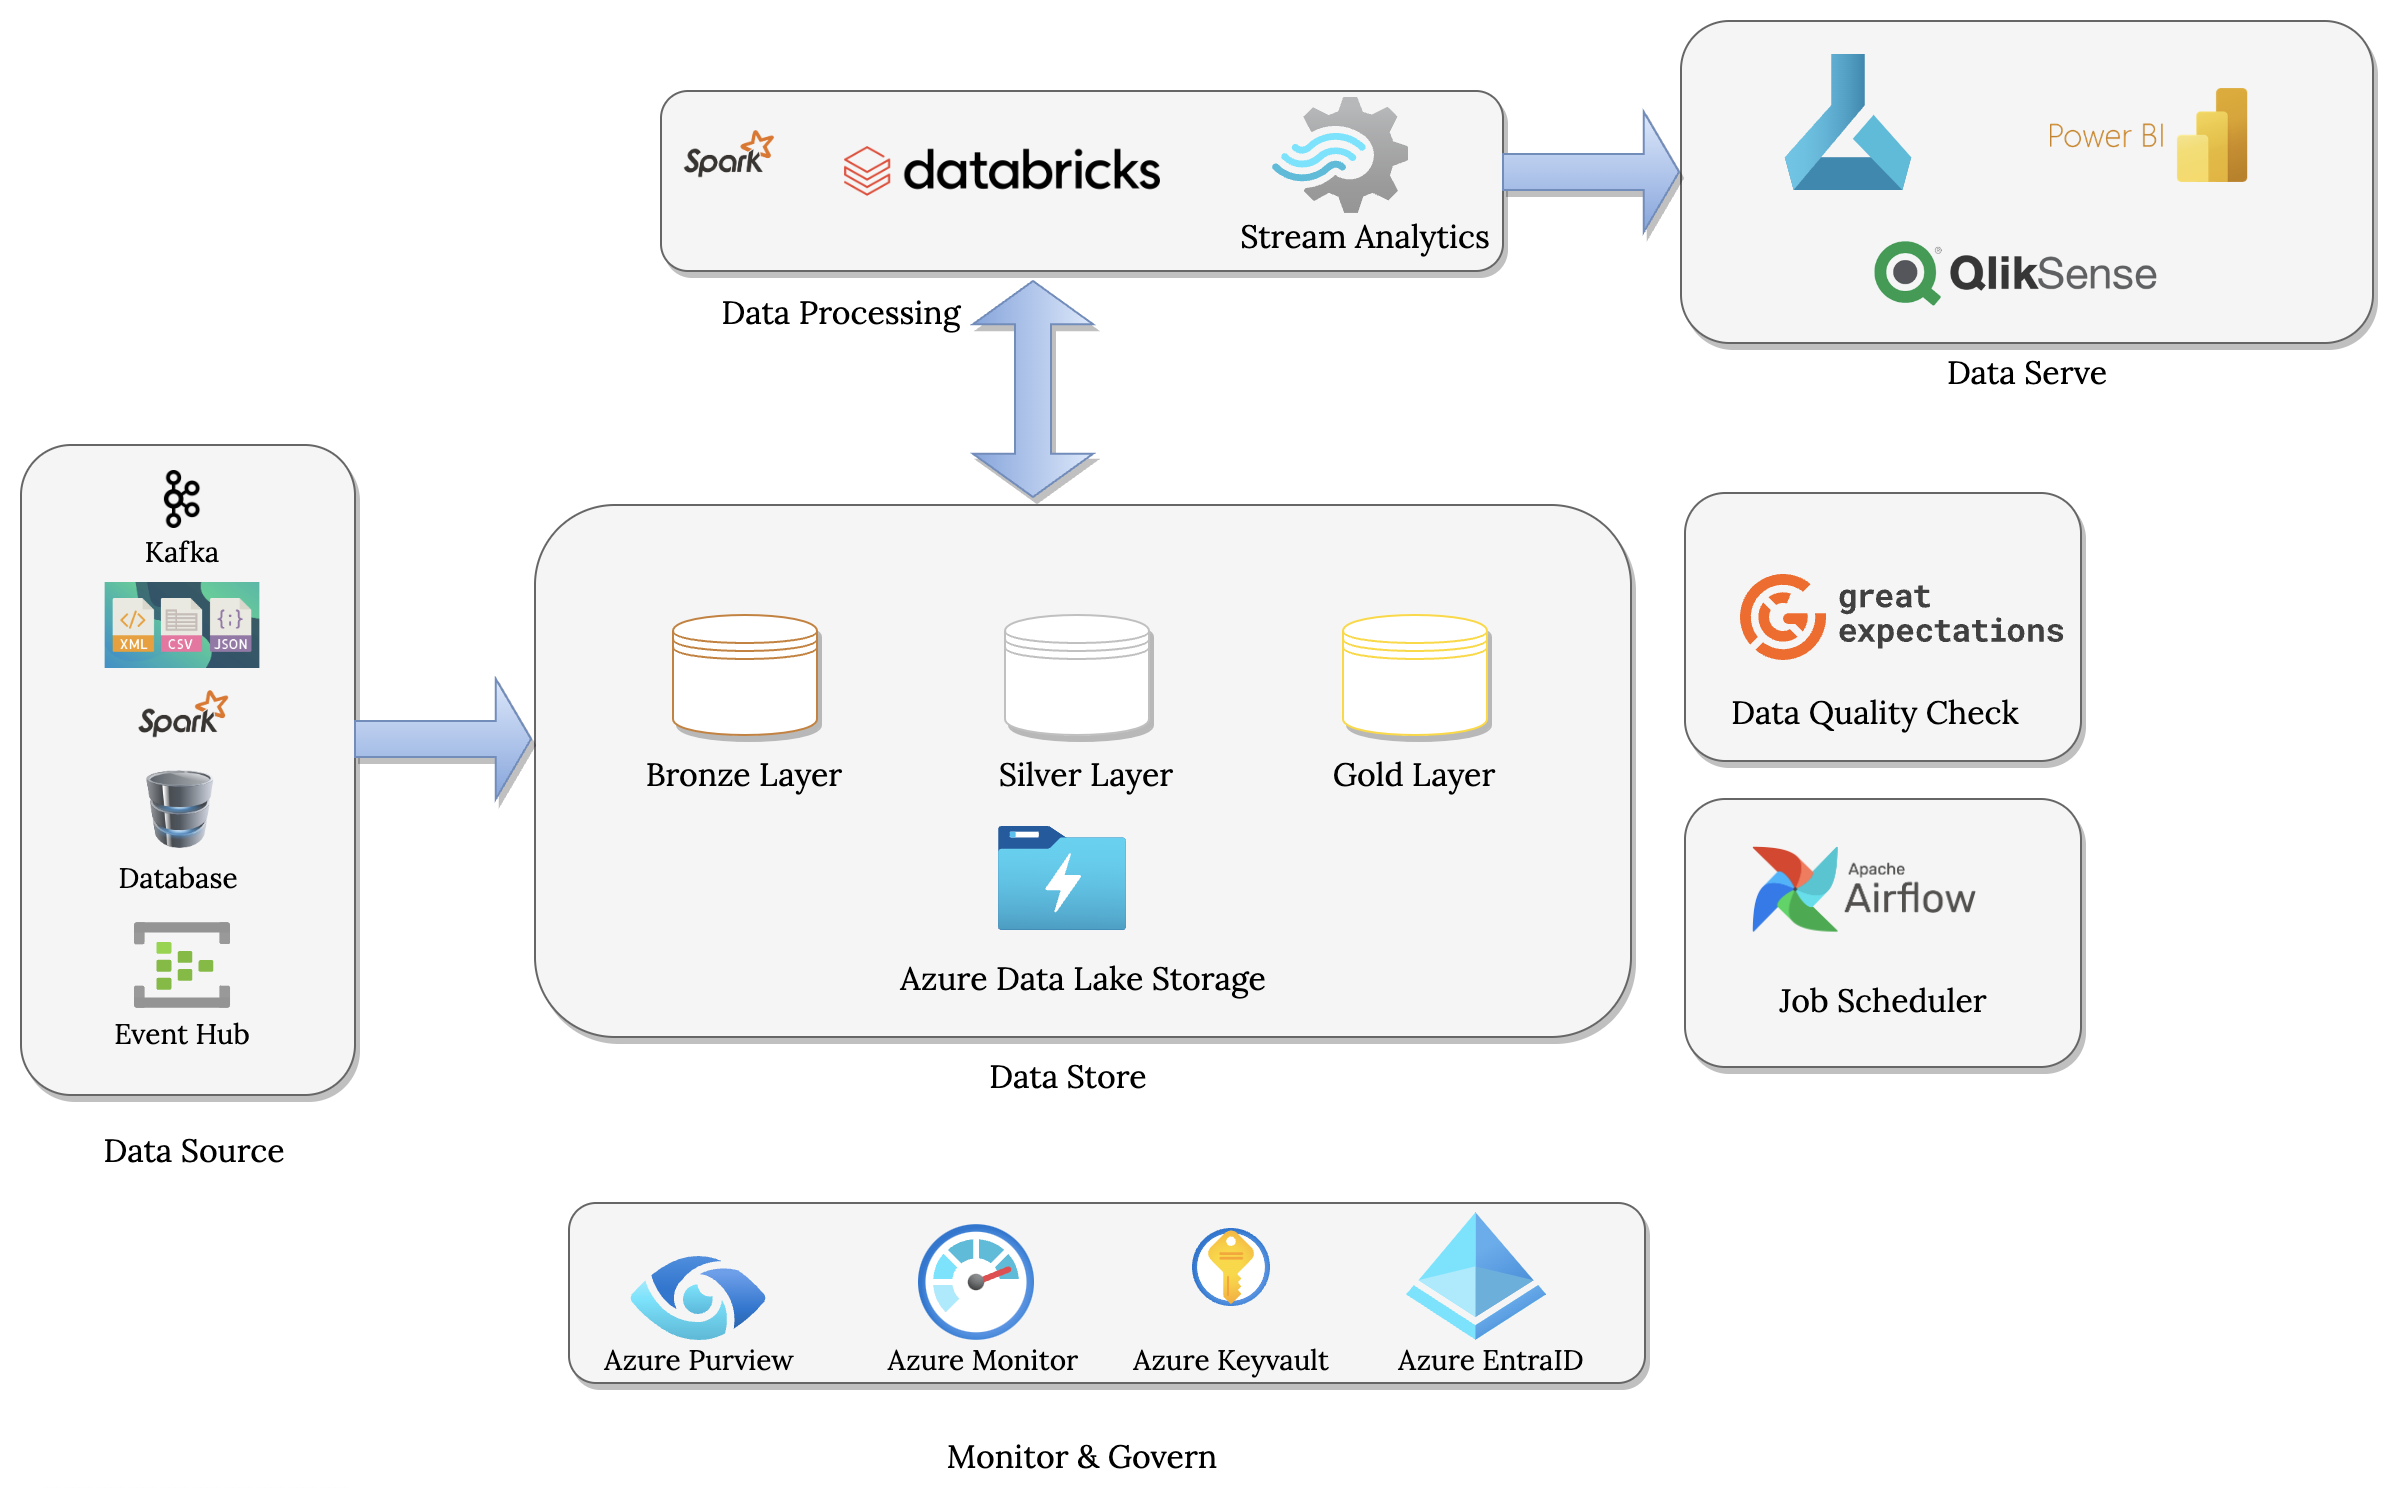
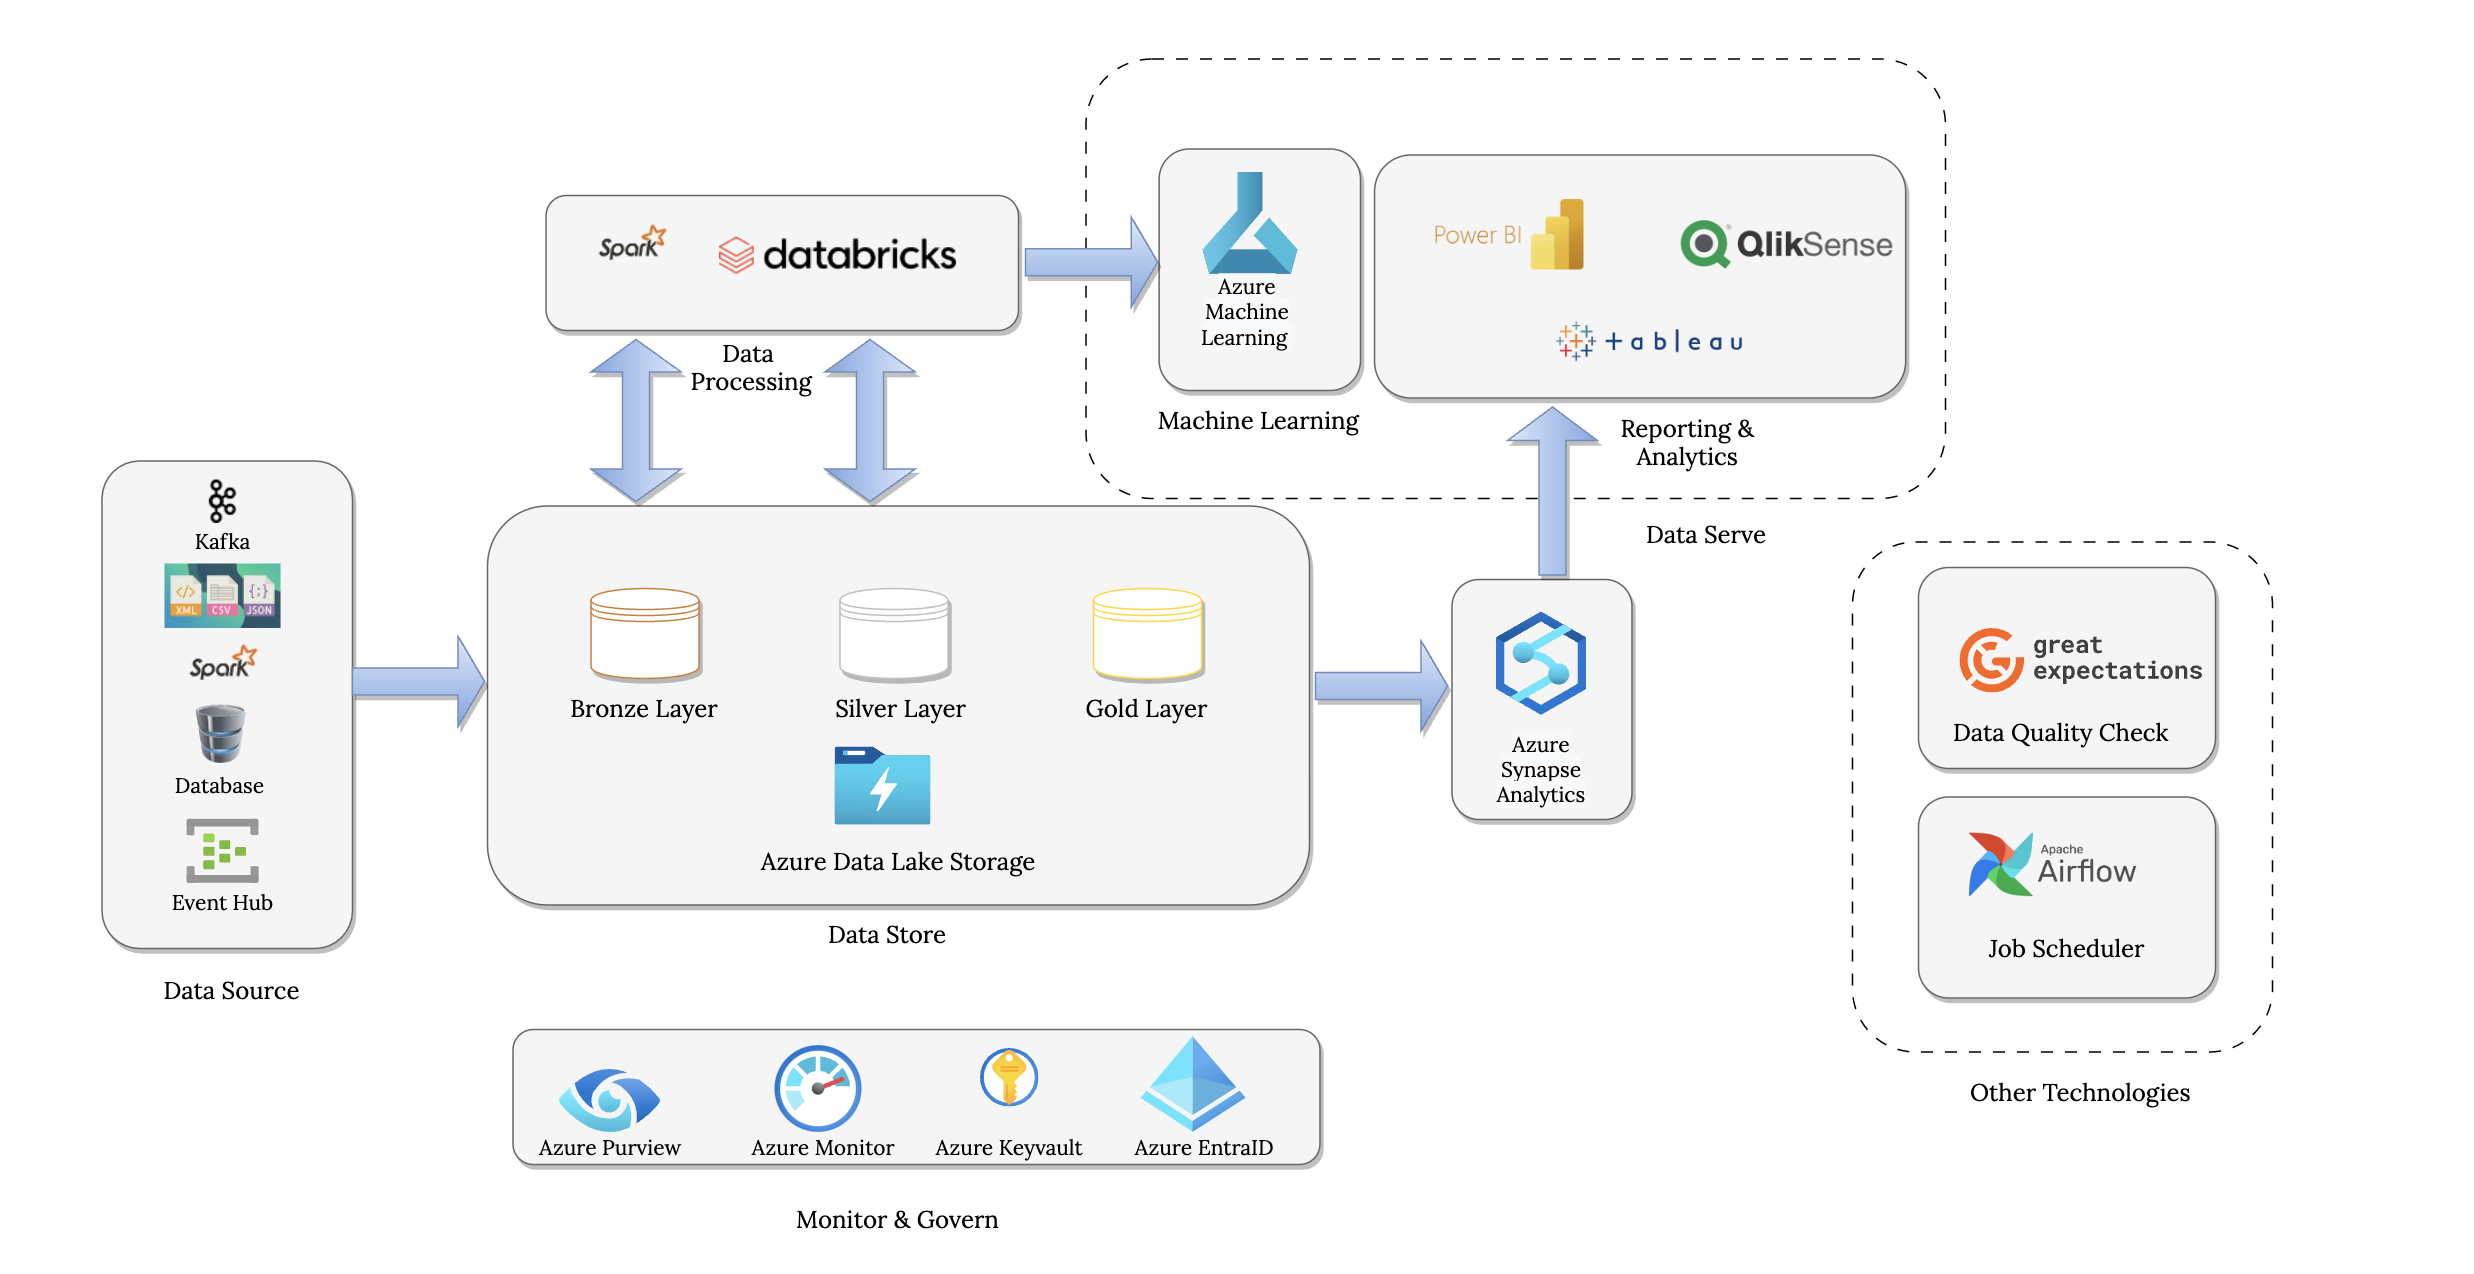
Updated README file and diagrams

diff --git a/README.md b/README.md
@@ -1,37 +1,33 @@
+# HPS Platform
 
-# HPS Platform 
+The objective of this repository is to fulfil the following requirement -
 
-The objective of this repository is to fulfil the following requirement - 
-
-1) Sketch out an architecture diagram, showing the main components of the digital web-based HPS product. Indicate how the components
-communicate with each other and what architectural style are being used/followed. Create a basic RESTful API endpoint (including some unit tests)
-for at least one of the components.
-2) Design and diagram an underlying unified data model / database(s) to be used to store, analyze and modify the primary data. Write sample SQL
-queries to retrieve specific data from this database.
-3) Define the relevant technical specifications and set of technologies that would be used to address the following operational aspects: 
-<br>
-❑ Extract data from different data sources, Transform it to the underlying data model, then Load it to the desired storage location. <br>
-❑ Dealing with structured and unstructured data sources.<br>
-❑ Scalability in order to process & serve behavioral data of billions of customers worldwide.<br>
-❑ Support of various trigger mechanisms that would invoke data extraction and ingestion.
-</br>
-4) Define what kind of technologies/platforms/tools should be used with or integrated into the application. Consider here also peripheral aspects such
-as observability and data quality.
-5) List challenges/concerns that you see and indicate how you think they should be approached and resolved.
-6) Calculate the total number of cups of coffee that the HPS product team consumes each sprint. Explain how you arrived at your answer.
-
-
+1. Sketch out an architecture diagram, showing the main components of the digital web-based HPS product. Indicate how the components
+   communicate with each other and what architectural style are being used/followed. Create a basic RESTful API endpoint (including some unit tests)
+   for at least one of the components.
+2. Design and diagram an underlying unified data model / database(s) to be used to store, analyze and modify the primary data. Write sample SQL
+   queries to retrieve specific data from this database.
+3. Define the relevant technical specifications and set of technologies that would be used to address the following operational aspects:
+   <br>
+   ❑ Extract data from different data sources, Transform it to the underlying data model, then Load it to the desired storage location. <br>
+   ❑ Dealing with structured and unstructured data sources.<br>
+   ❑ Scalability in order to process & serve behavioral data of billions of customers worldwide.<br>
+   ❑ Support of various trigger mechanisms that would invoke data extraction and ingestion.
+   </br>
+4. Define what kind of technologies/platforms/tools should be used with or integrated into the application. Consider here also peripheral aspects such
+   as observability and data quality.
+5. List challenges/concerns that you see and indicate how you think they should be approached and resolved.
+6. Calculate the total number of cups of coffee that the HPS product team consumes each sprint. Explain how you arrived at your answer.
 
 # Survey Template Application (Requirement #1)
 
-This repository contains the source code for a Proof of Concept (PoC) survey template application. It demonstrates how to set up, run, and interact with a simple survey application using Python and FastAPI along with the design diagram. 
+This repository contains the source code for a Proof of Concept (PoC) survey template application. It demonstrates how to set up, run, and interact with a simple survey application using Python and FastAPI along with the design diagram.
 
-** My assumption is HPS platform is a consumer survey platform where we can gather consumer journey experience. However there would be multiple ways to capture various sentimates and behaviours of consumer while doing online shopping. Especially on the shopping portal, the user tracking data, conversion details can be captured.
-
+\*\* My assumption is HPS platform is a consumer survey platform where we can gather consumer journey experience. However there would be multiple ways to capture various sentimates and behaviours of consumer while doing online shopping. Especially on the shopping portal, the user tracking data, conversion details can be captured.
 
 ## Solution Design
 
-The solution has two interfaces admin and non-admin. Following is the flow diagram for both type of users. 
+The solution has two interfaces admin and non-admin. Following is the flow diagram for both type of users.
 
 - Admin flow diagram
 
@@ -46,6 +42,7 @@ The solution has two interfaces admin and non-admin. Following is the flow diagr
 ![](images/HPS-solution-design.png?raw=true)
 
 ## Getting Started
+
 Follow these instructions to get the application running on your local machine for development and testing purposes.
 
 ### Prerequisites
@@ -56,21 +53,21 @@ Follow these instructions to get the application running on your local machine f
 
 1. **Set up Python environment**:
 
-  First, install Python 3.10.14 and set up a virtual environment:
+First, install Python 3.10.14 and set up a virtual environment:
 
-  ```bash
-  pyenv install 3.10.14
-  pyenv virtualenv 3.10.14 dev
-  pyenv local dev
-  ```
+```bash
+pyenv install 3.10.14
+pyenv virtualenv 3.10.14 dev
+pyenv local dev
+```
 
 2. **Install dependencies**:
 
-  Install the required Python packages using:
+Install the required Python packages using:
 
-  ```bash
-  pip install -r requirements.txt
-  ```
+```bash
+pip install -r requirements.txt
+```
 
 ### Running the Application
 
@@ -88,9 +85,9 @@ INFO:     Application startup complete.
 
 ### Interacting with the Application
 
-- #### API Documentation: 
-  -  Access the interactive API documentation by navigating to:  http://127.0.0.1:4000/docs 
-  -  For Swagger UI: http://127.0.0.1:4000/docs
+- #### API Documentation:
+  - Access the interactive API documentation by navigating to: http://127.0.0.1:4000/docs
+  - For Swagger UI: http://127.0.0.1:4000/docs
 
 You can update the survey template using the following `curl` command:
 
@@ -119,12 +116,11 @@ https://overall-clownfish-asksmruti-88d0204a.koyeb.app/docs
 
 ![](images/SwaggerAPI.png?raw=true)
 
-
-
 ### Running Tests
+
 Execute the unit tests (both positive and negative scenarios) using:
 
-``` pytest test_main.py ```
+`pytest test_main.py`
 
 ```bash
 ======================================================================= short test summary info ========================================================================
@@ -151,7 +147,6 @@ This document provides a set of SQL queries for managing a survey database based
 - [Updating Data](#updating-data)
 - [Deleting Data](#deleting-data)
 
-
 ## Creating Tables
 
 The following SQL statements are used to create tables that constitute the survey data model.
@@ -169,7 +164,7 @@ CREATE TABLE SurveySections (
 
 ### QuestionTypes Table
 
-Defines the types of questions used in the survey. 
+Defines the types of questions used in the survey.
 
 ```sql
 CREATE TABLE QuestionTypes (
@@ -177,6 +172,7 @@ CREATE TABLE QuestionTypes (
   TypeName VARCHAR(255) NOT NULL
 );
 ```
+
 ### Questions Table
 
 Contains questions that are part of the survey, each related to a section and question type.
@@ -191,7 +187,9 @@ CREATE TABLE Questions (
   FOREIGN KEY (QuestionTypeID) REFERENCES QuestionTypes(QuestionTypeID)
 );
 ```
+
 ### QuestionOptions Table
+
 Stores possible answer options for the questions in the survey.
 
 ```sql
@@ -231,7 +229,6 @@ INSERT INTO QuestionOptions (QuestionID, OptionValue) VALUES (1, 'Remodel');
 ## Retrieving Data
 
 Use the following queries to read data from the survey database.
-
 
 ```sql
 -- Get all questions from a specific section
@@ -273,24 +270,46 @@ WHERE QuestionID = 1;
 
 ![](images/data-pipeline-technology-landscape.png?raw=true)
 
+### Elements of a Data Pipeline:
+
+- Data Source: Determine the various data sources, which may include databases, APIs, logs, and external streams.
+
+- Data Processing: This phase has multiple steps
+  - Data Transformation: This phase focuses on cleaning, enhancing, and converting raw data into a structured format.
+  - Data Movement: Efficiently transfer data between different storage options and services w
+  - Data Loading: Load the transformed data into its final destination, which might be Azure SQL Data Warehouse, Azure Synapse Analytics, or other database systems.
+
+- Orchestration: Use tools like Azure Logic Apps or Apache Airflow to orchestrate the entire pipeline, ensuring that all steps are carried out in the correct sequence.
+
+- Data Security and Compliance: Safeguard sensitive data both at rest and in transit. Azure Key Vault for secure key and secret management.
+
+- Data Quality Check: Great Expectation open source platform can be used to do quality check.
+
+- Data Storage: Data can be stored in Azure Datalake storage
+
+- Monitoring and Logging: Establish comprehensive monitoring and logging through Azure Monitor and Azure Log Analytics to oversee pipeline performance and identify potential issues.
+
+- Data Partitioning: For large datasets, implement partitioning strategies to improve data storage and retrieval efficiency.
+
+Preferred architecture - _Kappa Architecture_ as this  easy to maintain and implement, unified codebase, real-time processing capabilities, cost-effectiveness, scalability, and reduced redundancy, fast and efficient data processing and analysis.
+
 # Challenges (Requirement #5)
 
-- The requirement could be more elaborative and some examples could be given 
+- The requirement could be more elaborative and some examples could be given
 
 - The data model would be more complex when we will learn the complexity of data
 
-- Real time data or historical data? Realtime data would be costly depending how much data but I presume if we track the user data on real time then it would be very expensive. Therefore we need to understand what value this will bring for the growth of organisation. 
+- Real time data or historical data? Realtime data would be costly depending how much data but I presume if we track the user data on real time then it would be expensive. Therefore we need to understand what value this will bring for the growth of organisation.
 
 # Coffee cups (Requirement #6)
 
-Coffee cups can be determined by doing a team survey however the below numbers are completely based on assumption. 
+Coffee cups can be determined by doing a team survey however the below numbers are completely based on assumption.
 
-Assuming everyone in the team consume coffee 
-Here is a rough estimation 
+Assuming everyone in the team consume coffee
+Here is a rough estimation
+
 ```
 2Cups / Person
 1 Sprint = 2 Weeks = 10Days
 2 Cups/ x 10 Days x (2 FE + 2 BE + 4 DE + 2 DevOps + 1 PO) = 220 Cups
 ```
- 
-
